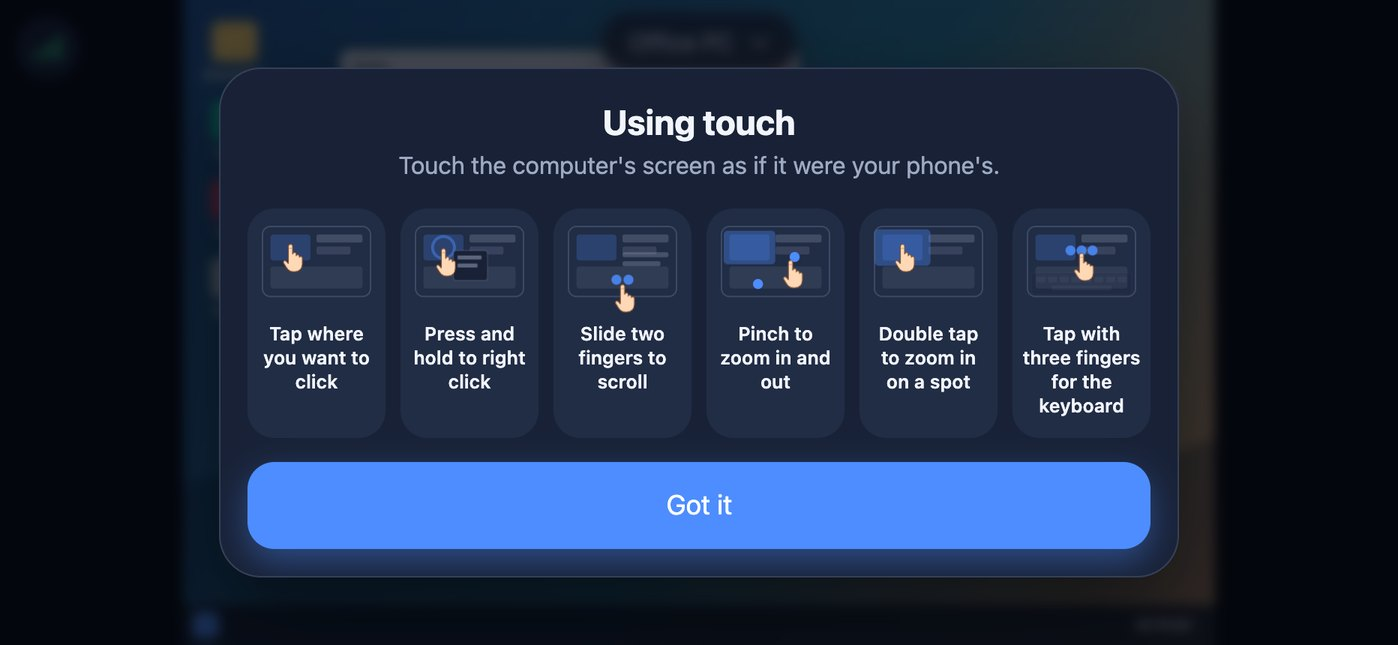
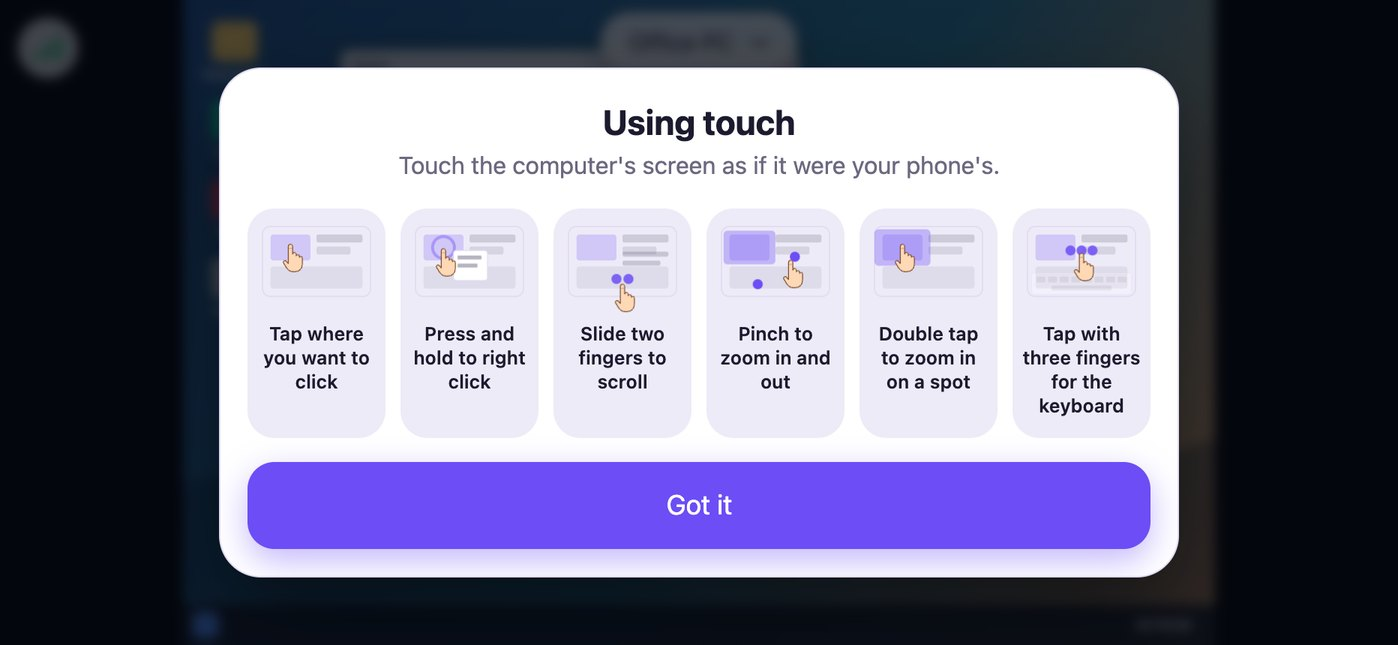
Session screen takes its title from the target when none is given, uses the app theme lines, and the previews now show the light and dark themes

diff --git a/mobile/ui/src/session/SessionScreen.tsx b/mobile/ui/src/session/SessionScreen.tsx
@@ -60,8 +60,23 @@ import "./session.css";
 export interface SessionScreenProps {
   api: Api;
   target: ConnectTarget;
-  title: string;
+  /** The computer's name. Optional: without it the saved host's name, the helper's name or the address is used. */
+  title?: string;
   onExit(): void;
+}
+
+/** A name for the computer from the target alone, before anything is looked up. */
+export function targetName(target: ConnectTarget): string {
+  switch (target.kind) {
+    case "demo":
+      return "Demo computer";
+    case "boundary":
+      return target.helperName || "Their computer";
+    case "adhoc":
+      return target.address;
+    default:
+      return "Your computer";
+  }
 }
 
 type SheetKind = "mode" | "quality" | "clipboard" | "stats" | null;
@@ -101,6 +116,7 @@ export function SessionScreen({ api, target, title, onExit }: SessionScreenProps
   const [zoomed, setZoomed] = useState(false);
   const [stage, setStage] = useState<Size>({ w: 0, h: 0 });
   const [os, setOs] = useState<HostOs | null>(null);
+  const [hostName, setHostName] = useState<string | null>(null);
   const [clipSeen, setClipSeen] = useState<string | null>(null);
 
   const rootRef = useRef<HTMLDivElement | null>(null);
@@ -152,7 +168,10 @@ export function SessionScreen({ api, target, title, onExit }: SessionScreenProps
       .hostsList()
       .then((hosts) => {
         const h = hosts.find((x) => x.id === target.hostId);
-        if (live && h) setOs(h.os);
+        if (live && h) {
+          setOs(h.os);
+          setHostName(h.name);
+        }
       })
       .catch(() => {});
     return () => {
@@ -750,7 +769,7 @@ export function SessionScreen({ api, target, title, onExit }: SessionScreenProps
 
   // ------------------------------------------------------------ render
 
-  const name = s.desktopName && title.trim() === "" ? s.desktopName : title;
+  const name = title?.trim() || hostName || (target.kind === "saved" && s.desktopName) || targetName(target);
   const level = qualityLevel(s.stats);
   const showDesktop = s.phase === "connected" || s.phase === "ended";
   const reconnecting = s.state.state === "reconnecting";

diff --git a/mobile/ui/src/session/dev/main.tsx b/mobile/ui/src/session/dev/main.tsx
@@ -6,6 +6,8 @@
  */
 import { StrictMode, useMemo, useState } from "react";
 import { createRoot } from "react-dom/client";
+// The app theme, so the dev page shows the real colours (light, or ?theme=dark).
+import "../../theme/theme.css";
 import { SessionScreen } from "../SessionScreen";
 import { makeFakeApi } from "./fakeApi";
 import { createMockApi } from "../../api/mock";
@@ -13,6 +15,8 @@ import { withDemo } from "../../api";
 import type { ConnectTarget } from "../../api/contract";
 
 const demo = new URLSearchParams(location.search).get("demo") === "1";
+const theme = new URLSearchParams(location.search).get("theme");
+if (theme === "dark" || theme === "light") document.documentElement.dataset.theme = theme;
 
 function App() {
   const api = useMemo(() => (demo ? withDemo(createMockApi()) : makeFakeApi()), []);

diff --git a/mobile/ui/src/session/ui/art.tsx b/mobile/ui/src/session/ui/art.tsx
@@ -248,7 +248,7 @@ export function ConnectArt({ step, failed }: { step: number; failed: boolean }) 
         </g>
       </g>
       {/* the link */}
-      <path d={path} fill="none" stroke="var(--s-line)" strokeWidth="3" strokeDasharray="2 9" strokeLinecap="round" />
+      <path d={path} fill="none" stroke="var(--s-ink-dim)" strokeOpacity="0.55" strokeWidth="3" strokeDasharray="2 9" strokeLinecap="round" />
       {failed ? (
         <g transform="translate(130 50)">
           <circle r="13" fill="var(--s-danger)" />

diff --git a/mobile/ui/src/session/session.css b/mobile/ui/src/session/session.css
@@ -16,7 +16,7 @@
   --s-danger: var(--dv-danger, #ff5a5f);
   --s-ok: var(--dv-ok, #2fc97a);
   --s-warn: #f6a723;
-  --s-line: rgba(160, 175, 210, 0.22);
+  --s-line: var(--dv-line, rgba(160, 175, 210, 0.22));
   --s-hand: #ffd8b5;
   --s-hand-line: #7c4f33;
   --s-safe-t: env(safe-area-inset-top, 0px);
